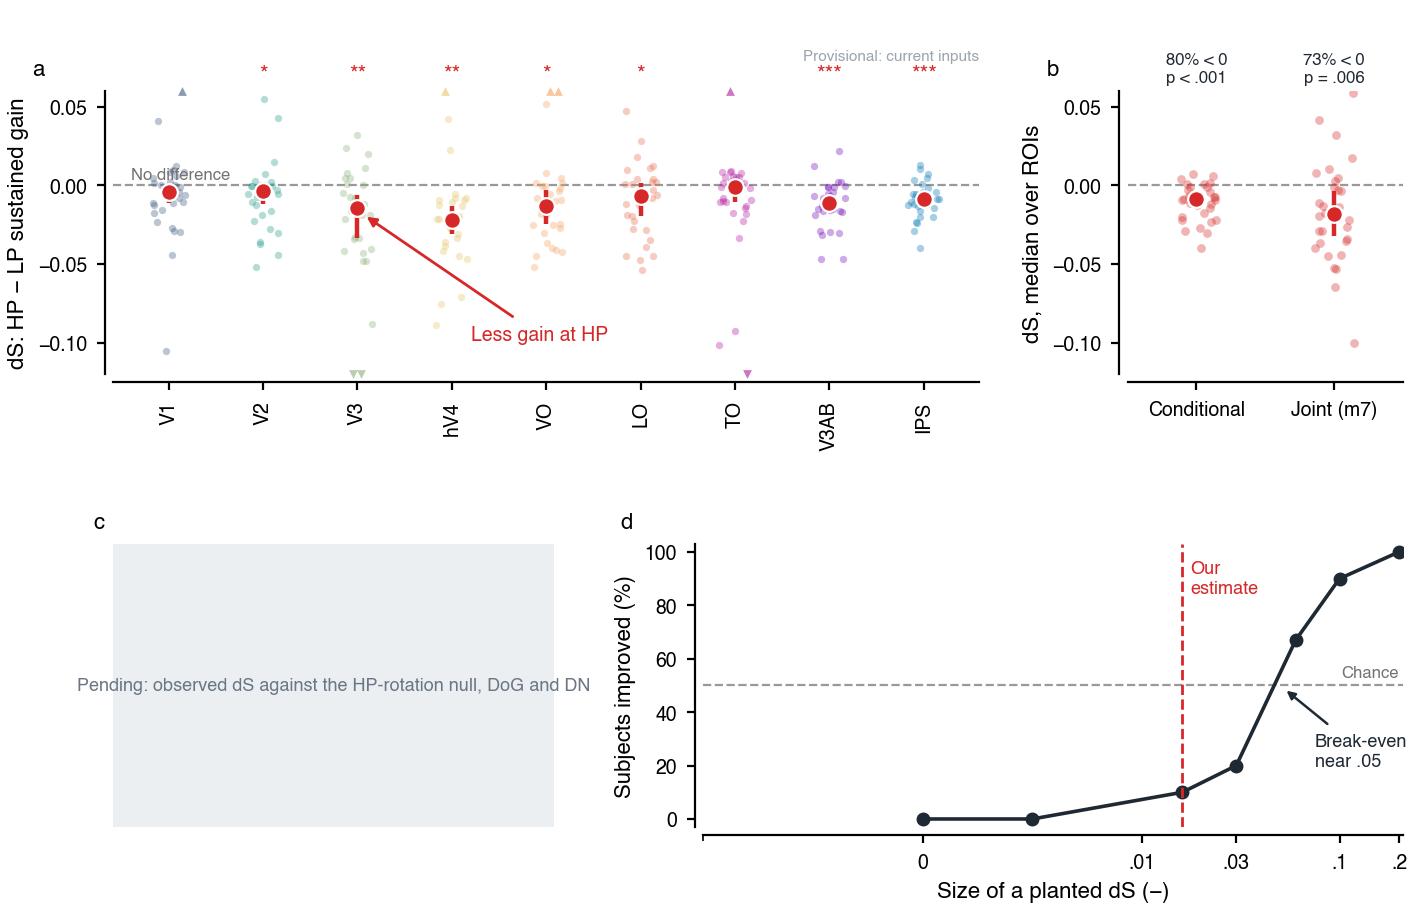
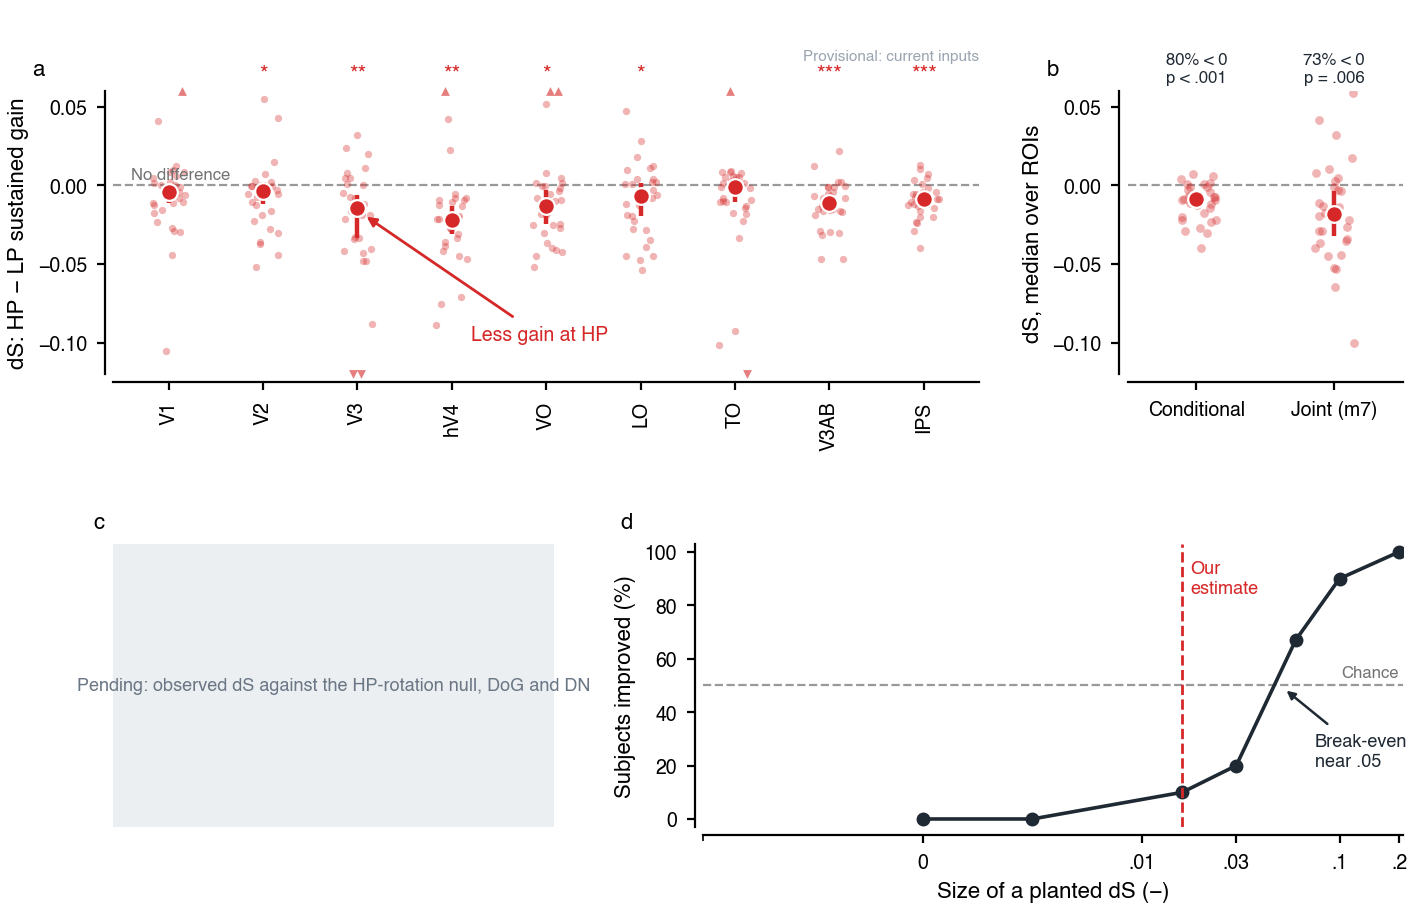
Figures 4 and 5: subject dots in the colour of the gain term, not the ROI

diff --git a/retsupp/visualize/paper/fig4_hierarchy.py b/retsupp/visualize/paper/fig4_hierarchy.py
@@ -89,9 +89,9 @@ def panel_gain(ax, d, t, term, col, ylim, note, note_xy):
         rng = np.random.default_rng(i)
         xx = i + rng.uniform(-.17, .17, len(v))
         ok = (v >= lo) & (v <= hi)
-        ax.scatter(xx[ok], v[ok], s=7, color=ROI_COLORS[roi], alpha=.35, lw=0, zorder=1)
-        ax.scatter(xx[v > hi], np.full((v > hi).sum(), hi), s=10, marker='^', color=ROI_COLORS[roi], alpha=.6, lw=0, clip_on=False)
-        ax.scatter(xx[v < lo], np.full((v < lo).sum(), lo), s=10, marker='v', color=ROI_COLORS[roi], alpha=.6, lw=0, clip_on=False)
+        ax.scatter(xx[ok], v[ok], s=7, color=col, alpha=.35, lw=0, zorder=1)
+        ax.scatter(xx[v > hi], np.full((v > hi).sum(), hi), s=10, marker='^', color=col, alpha=.6, lw=0, clip_on=False)
+        ax.scatter(xx[v < lo], np.full((v < lo).sum(), lo), s=10, marker='v', color=col, alpha=.6, lw=0, clip_on=False)
     r = t[(t.model == 'DoG') & (t.term == term)].set_index('roi').loc[ROI_ORDER]
     ax.errorbar(x, r['median'], yerr=[r['median'] - r.ci_low, r.ci_high - r['median']], fmt='o', ms=6, color=col, mec='w', mew=.8,
                 lw=1.6, capsize=0, zorder=4)

diff --git a/retsupp/visualize/paper/fig5_sustained_hp.py b/retsupp/visualize/paper/fig5_sustained_hp.py
@@ -33,9 +33,9 @@ def panel_roi(ax, cond, ylim=(-.12, .06)):
         rng = np.random.default_rng(i)
         xx = i + rng.uniform(-.17, .17, len(v))
         ok = (v >= lo) & (v <= hi)
-        ax.scatter(xx[ok], v[ok], s=7, color=ROI_COLORS[roi], alpha=.35, lw=0, zorder=1)
-        ax.scatter(xx[v > hi], np.full((v > hi).sum(), hi), s=10, marker='^', color=ROI_COLORS[roi], alpha=.6, lw=0, clip_on=False)
-        ax.scatter(xx[v < lo], np.full((v < lo).sum(), lo), s=10, marker='v', color=ROI_COLORS[roi], alpha=.6, lw=0, clip_on=False)
+        ax.scatter(xx[ok], v[ok], s=7, color=HP, alpha=.35, lw=0, zorder=1)
+        ax.scatter(xx[v > hi], np.full((v > hi).sum(), hi), s=10, marker='^', color=HP, alpha=.6, lw=0, clip_on=False)
+        ax.scatter(xx[v < lo], np.full((v < lo).sum(), lo), s=10, marker='v', color=HP, alpha=.6, lw=0, clip_on=False)
         m, a, b = median_ci(v)
         ax.errorbar(i, m, yerr=[[m - a], [b - m]], fmt='o', ms=6, color=HP, mec='w', mew=.8, lw=1.6, capsize=0, zorder=4)
         ps.append(stats.wilcoxon(v).pvalue)
